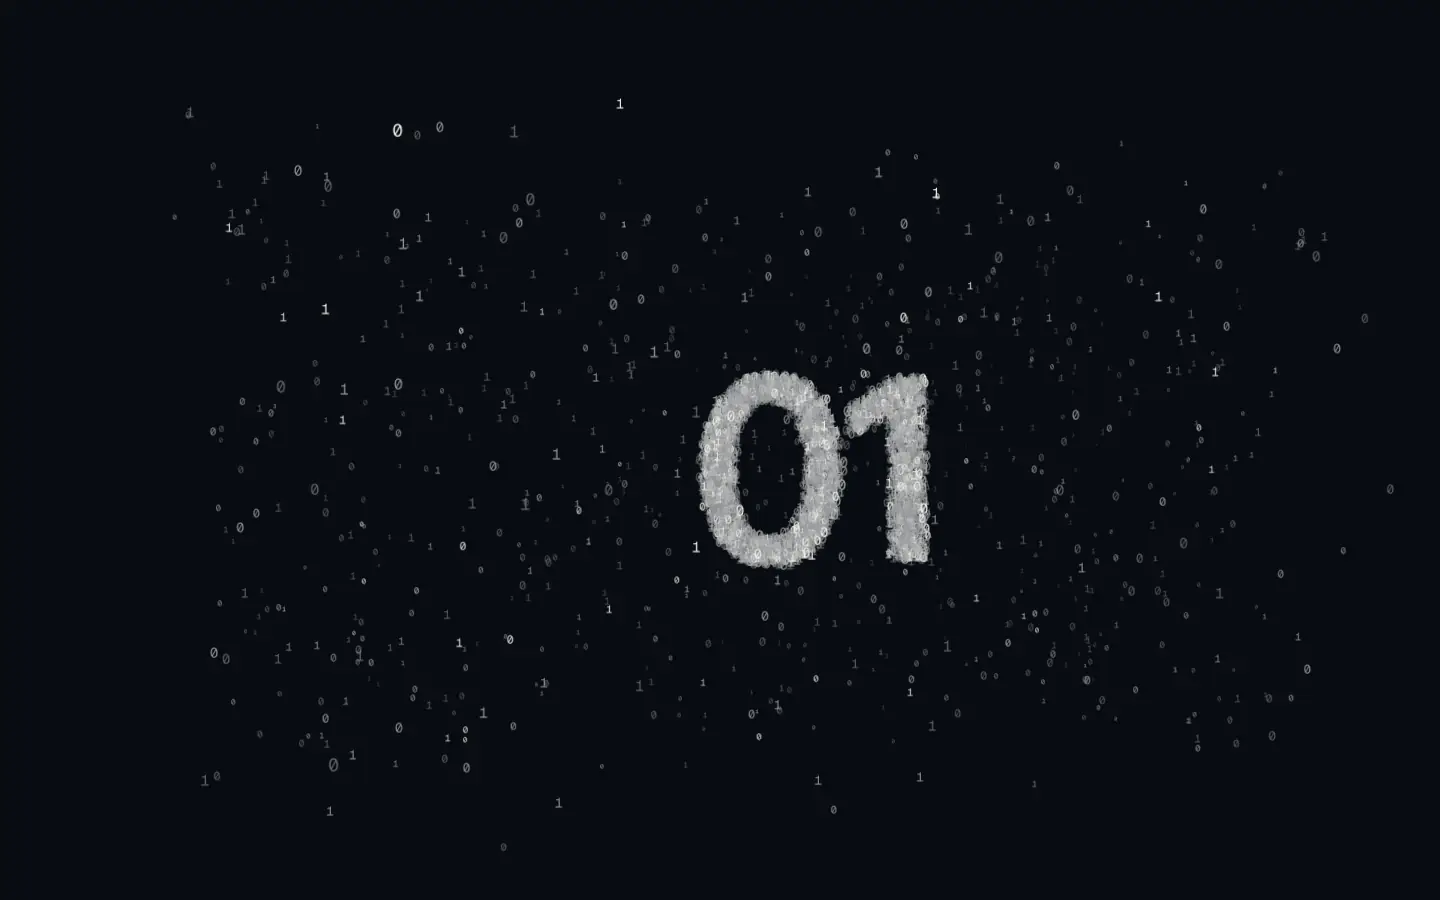
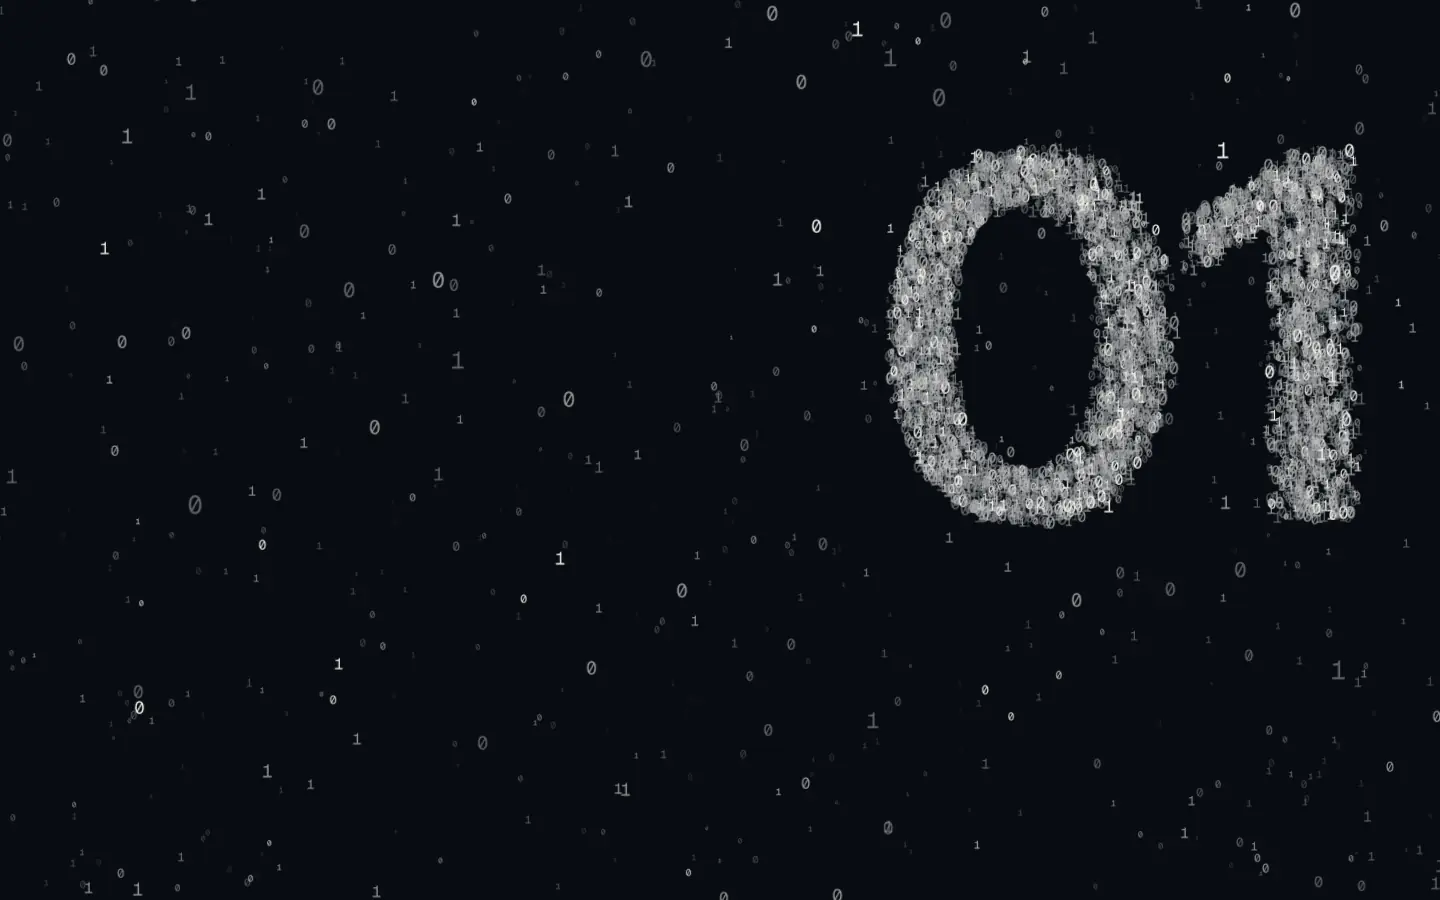
Posterler yeni boyuta göre yeniden çekildi, geniş ekran için ayrı poster; alan düz başlar, posterle aynı

diff --git a/core/static/core/site.js b/core/static/core/site.js
@@ -274,7 +274,8 @@
       addEventListener('touchend', () => { tUp = true; }, { passive: true }); addEventListener('touchcancel', () => { tUp = true; }, { passive: true });
     }
 
-    let raf = 0, last = 0, sx = 0, sy = 0;
+    // Salınım alanın başladığı andan sayılır: ilk karede şekil düz durur, posterle (durağan resim) aynı.
+    let raf = 0, last = 0, sx = 0, sy = 0, t0 = -1;
     function frame(now) {
       raf = requestAnimationFrame(frame);
       const t = now * 0.001, dt = Math.min(0.05, last ? t - last : 0.016); last = t;
@@ -293,14 +294,15 @@
         U.uTime.value = t; U.uVel.value = Math.min(1.2, field.vel);
       }
       dirty = false;
+      if (t0 < 0) t0 = t; const st = t - t0;
       // Girişteki "01" sayfayla birlikte kayar: aşağı inerken adın arkasına düşmez.
       const lift = live === '01' && field.box && isHome() ? Math.min(scrollY, innerHeight) / innerHeight * VIS_H : 0;
       group.position.set(cur.x, cur.y + lift, 0); group.scale.setScalar(cur.s);
       // Büyük şekil daha az döner: kenarları kutusundan taşmasın.
       const sway = 1 / Math.max(1, cur.s * 0.8);
-      group.rotation.y = ((reduce ? 0 : Math.sin(t * 0.25) * 0.26) + sx * 0.16) * sway;
+      group.rotation.y = ((reduce ? 0 : Math.sin(st * 0.25) * 0.26) + sx * 0.16) * sway;
       group.rotation.x = spinA - sy * 0.08;
-      dustPts.rotation.y = sx * 0.05 + (reduce ? 0 : Math.sin(t * 0.11) * 0.04); dustPts.rotation.x = -sy * 0.03;
+      dustPts.rotation.y = sx * 0.05 + (reduce ? 0 : Math.sin(st * 0.11) * 0.04); dustPts.rotation.x = -sy * 0.03;
       dustPts.position.y = lift * 0.35;
       const dk = tall && !(mob.matches && isHome()) && (live !== 'wave') ? clamp(1 - (scrollY - innerHeight * 0.08) / (innerHeight * 0.3), 0.05, 1)
         : (tall && isHome() && live !== '01' && live !== 'wave' ? 0.85 : 1);

diff --git a/core/templates/base.html b/core/templates/base.html
@@ -18,7 +18,7 @@
 </head>
 <body>
 <canvas id="bits" aria-hidden="true"></canvas>
-{% if page_key == "home" %}<picture class="poster-wrap"><source media="(max-width: 759px) and (min-aspect-ratio: 13/25)" srcset="{% static 'core/poster-s.webp' %}"><source media="(max-width: 759px)" srcset="{% static 'core/poster-m.webp' %}"><img class="poster" src="{% static 'core/poster-d.webp' %}" alt="" aria-hidden="true" decoding="async" fetchpriority="low"></picture>{% endif %}
+{% if page_key == "home" %}<picture class="poster-wrap"><source media="(min-width: 1680px)" srcset="{% static 'core/poster-w.webp' %}"><source media="(max-width: 759px) and (min-aspect-ratio: 13/25)" srcset="{% static 'core/poster-s.webp' %}"><source media="(max-width: 759px)" srcset="{% static 'core/poster-m.webp' %}"><img class="poster" src="{% static 'core/poster-d.webp' %}" alt="" aria-hidden="true" decoding="async" fetchpriority="low"></picture>{% endif %}
 <div class="grain" aria-hidden="true"></div>
 
 <header class="top pad">
